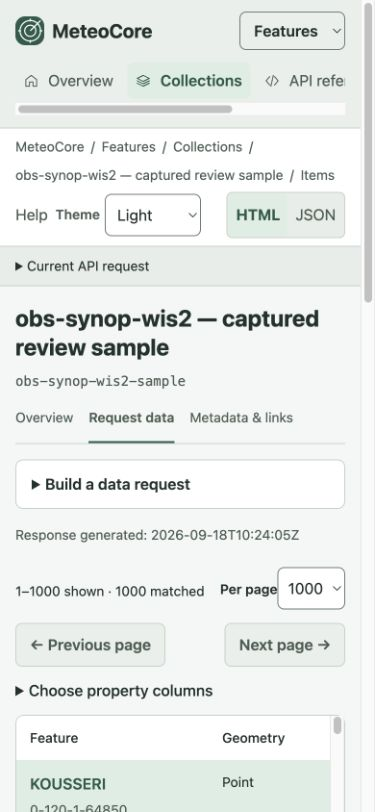
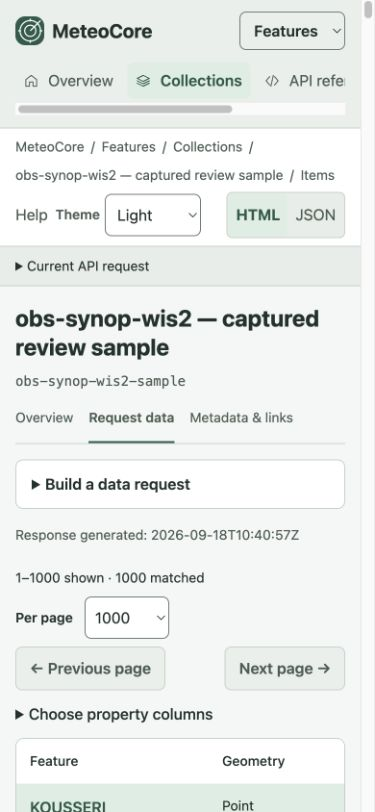
Use page scrolling for item tables and fix paging control spacing

diff --git a/crates/api-common/src/workbench/style.css b/crates/api-common/src/workbench/style.css
@@ -2692,7 +2692,7 @@ a {
   .catalog-page .results-bar small{font-size:14px}
 }
 
-/* Generic feature browser: bound large responses, keep data and paging in reach. */
+/* Generic feature browser: full response rows and accessible paging. */
 .items-page .detail-heading{margin-bottom:12px}
 .items-page .detail-heading h1{margin:0 0 6px}
 .items-page .detail-tabs{margin-bottom:16px}
@@ -2709,7 +2709,7 @@ a {
 .items-page .results-head{margin:12px 0;display:flex;flex-wrap:wrap;gap:4px 20px;align-items:center}
 .items-page .results-head h2{font-size:18px;margin:0}
 .items-page .results-head p{font-size:14px;margin:0}
-.items-page .item-layout{grid-template-columns:minmax(0,1fr);gap:20px}
+.items-page .item-layout{grid-template-columns:minmax(0,1.75fr) minmax(280px,1fr);gap:22px;align-items:start}
 .item-layout>section,.item-layout>aside{min-width:0}
 .item-paging{display:flex;flex-wrap:wrap;align-items:center;gap:12px;margin:10px 0}
 .item-paging>span{margin-right:auto;font-size:14px}
@@ -2721,8 +2721,8 @@ a {
 .column-options{display:flex;flex-wrap:wrap;gap:8px 20px}
 .column-options label{display:flex;gap:8px;align-items:center;font-size:14px}
 .column-options input{width:18px;height:18px;min-height:0;margin:0}
-.item-result-scroll{max-height:560px;overflow:auto;overscroll-behavior:contain}
-.item-result-scroll th{position:sticky;top:0;z-index:1;background:var(--surface)}
+.item-result-scroll{overflow-x:auto}
+.item-result-scroll th{background:var(--surface)}
 .item-result-scroll .item-table{table-layout:auto;min-width:100%}
 .item-result-scroll td,.item-result-scroll th{min-width:130px;max-width:320px;overflow-wrap:anywhere;vertical-align:top}
 .item-result-scroll td:first-child{min-width:200px}
@@ -2740,10 +2740,14 @@ a {
  .items-page .results-head h2{font-size:16px}
  .item-paging{gap:8px}
  .item-paging nav{width:100%;display:flex;justify-content:space-between}
- .item-result-scroll{max-height:440px}
  .items-page .item-primary-fields{display:grid;grid-template-columns:minmax(0,1fr)}
  .items-page .item-primary-fields .field{min-width:0}
  .items-page .item-primary-fields>.btn{width:100%}
  .typed-properties{table-layout:auto;min-width:420px}
  .items-page .detail-layout>.panel{min-width:0}
 }
+
+/* Progressive enhancement must preserve the label/control flex layout. */
+.js .per-page.enhanced{display:flex!important;align-items:center;gap:12px;flex:0 0 auto;white-space:nowrap;margin:0}
+.per-page select{width:auto;min-width:5.5rem;flex:0 0 auto;margin:0}
+@media(max-width:1100px){.items-page .item-layout{grid-template-columns:minmax(0,1fr)}}

diff --git a/crates/api-features/src/html.rs b/crates/api-features/src/html.rs
@@ -395,7 +395,7 @@ pub(crate) fn features_html(
                 ));
             }
             body.push_str("</div><p data-column-status role=\"status\"></p></details>");
-            body.push_str("<div class=\"table-wrap item-result-scroll\" tabindex=\"0\" role=\"region\" aria-label=\"Feature results; scroll for more rows and columns\"><table class=\"item-table\"><thead><tr><th scope=\"col\">Feature</th><th scope=\"col\">Geometry</th>");
+            body.push_str("<div class=\"table-wrap item-result-scroll\" tabindex=\"0\" role=\"region\" aria-label=\"Feature results; scroll horizontally for more columns\"><table class=\"item-table\"><thead><tr><th scope=\"col\">Feature</th><th scope=\"col\">Geometry</th>");
             for key in &defaults {
                 body.push_str(&format!(
                     "<th scope=\"col\" data-property-cell>{}</th>",
@@ -538,7 +538,7 @@ mod tests {
     }
 
     #[test]
-    fn generic_listing_keeps_mixed_properties_and_large_pages_bounded() {
+    fn generic_listing_keeps_mixed_properties_and_all_response_rows() {
         let doc = json!({"features":[
             {"id":"a","geometry":{"type":"Point","coordinates":[20,60]},"properties":{"label":"First","max_dbz":42,"nested":{"a":1},"null_value":null},"links":[{"rel":"self","href":"/items/a?f=html"}]},
             {"id":"b","geometry":null,"properties":{"nimi":"Second","last_report":"2026-09-18T09:00:00Z","evil</div>":"</script>"},"links":[{"rel":"self","href":"/items/b?f=html"}]}

diff --git a/docs/design/api-workbench/README.md b/docs/design/api-workbench/README.md
@@ -222,8 +222,9 @@ Listing columns come from actual properties and advertised filter fields. The
 first four non-null scalar fields other than labels are the default; users can
 choose up to eight columns, remembered per collection for the session. Missing
 properties and null values remain distinct. Selection is presentation state and
-never changes the API URL. The table is bounded and keyboard-scrollable, with
-sticky headings and top/bottom pagination. Raw geometry is retained on details.
+never changes the API URL. The table grows to show every response row, with
+page scrolling vertically and top/bottom pagination. Wide tables support
+horizontal scrolling. The map is alongside results on wide screens. Raw geometry is retained on details.
 
 The map explicitly shows the current page and uses generic property facts. The
 request builder, applied URL and draft URL are collapsible; applied filters remain
@@ -236,12 +237,20 @@ column persistence through paging/search, draft versus applied requests, typed
 property search and filter-preserving first-page recovery. Builder/advanced
 disclosure states survive submission. Primary query controls align at 46 px.
 
-For the captured 1,000-station response, the listing has no raw-geometry
-disclosures and the document is about 2,000 px tall on desktop, compared with
-83,000 px previously. At 390 × 844 the first result starts at 790 px (previously
-2,015 px), with no horizontal page overflow. Large tables scroll within a
-labelled, keyboard-focusable region.
+The listing has no per-feature raw-geometry disclosures. Following layout review,
+the result table grows to the requested limit and scrolls with the document;
+it has no height cap or separate vertical scrolling. On wide screens the map
+sits to the right, as on item details. On narrow screens it follows the table.
+Page-size labels and controls share an explicit flex row with a 12 px gap in
+both catalogs and item lists.
 
 Screenshots: [items desktop](screenshots/items-light.png),
 [items mobile](screenshots/items-mobile.png),
 [item detail, dark](screenshots/item-dark.png).
+
+Layout follow-up verification: the 1,000-row table's client height equals its
+scroll height on both desktop and 390 px mobile, confirming no internal vertical
+scroll area. The map lies to the right on desktop and below results on mobile.
+Page-size label/select gaps measure 12 px in both item controls and the catalog;
+mobile pages have no horizontal document overflow. All 654 API tests, seven
+cross-API contracts, clippy, formatting and HTTP smoke checks passed again.

diff --git a/crates/api-features/README.md b/crates/api-features/README.md
@@ -241,8 +241,11 @@ JSON null. Stored columns survive pages where those fields are absent. Column
 choices never change API requests or JSON output. Without JavaScript, the default
 columns, paging and item links still work.
 
-The response table has bounded scrolling, keyboard focus and sticky headings.
-Paging and page-size controls appear above and below it. An empty offset with
+The response table shows every row returned for the requested limit and grows
+with the page, without a separate vertical scrollbar. Horizontal scrolling is
+available for wide sets of selected columns. The map sits to the right on wide
+screens and below the table on narrow screens. Paging and spaced page-size
+controls appear above and below the table. An empty offset with
 matches offers a first-page link that retains filters, repeated/empty predicates
 and sorting. The request builder and applied/draft URL tools are collapsible;
 builder and advanced-filter disclosure choices persist per collection;

diff --git a/crates/api-common/README.md b/crates/api-common/README.md
@@ -179,6 +179,10 @@ bounds and parameter/style names, and display sampling resolution only when
 advertised. No extra engine queries or inferred sample cadence are introduced.
 
 Feature pages reuse compact request disclosures and mobile navigation. Shared
-enhancement supports bounded property tables, per-collection session column
+enhancement supports full-height property tables, per-collection session column
 preferences and multiple page-size controls. Property selections affect HTML
 presentation only. Weather-specific expiry interpretation has been removed.
+
+Page-size labels and selects retain their flex spacing after JavaScript enables
+them, across catalogs and item lists. Item tables use page scrolling vertically;
+the map sits beside results on wide screens.

diff --git a/docs/ogc-api-common-matrix.md b/docs/ogc-api-common-matrix.md
@@ -335,3 +335,7 @@ only when explicitly supplied. No new discovery controls or conformance claims.
 Features item HTML now uses generic typed properties and user-selected columns;
 it no longer interprets weather property names. Paging recovery preserves the
 applied request. These presentation changes add no Common conformance claims.
+
+Item listings scroll with the page and retain every returned row. Wide-screen
+layouts place the map beside results; shared page-size controls keep label and
+select spacing across catalogs and items. No API paging semantics change.
